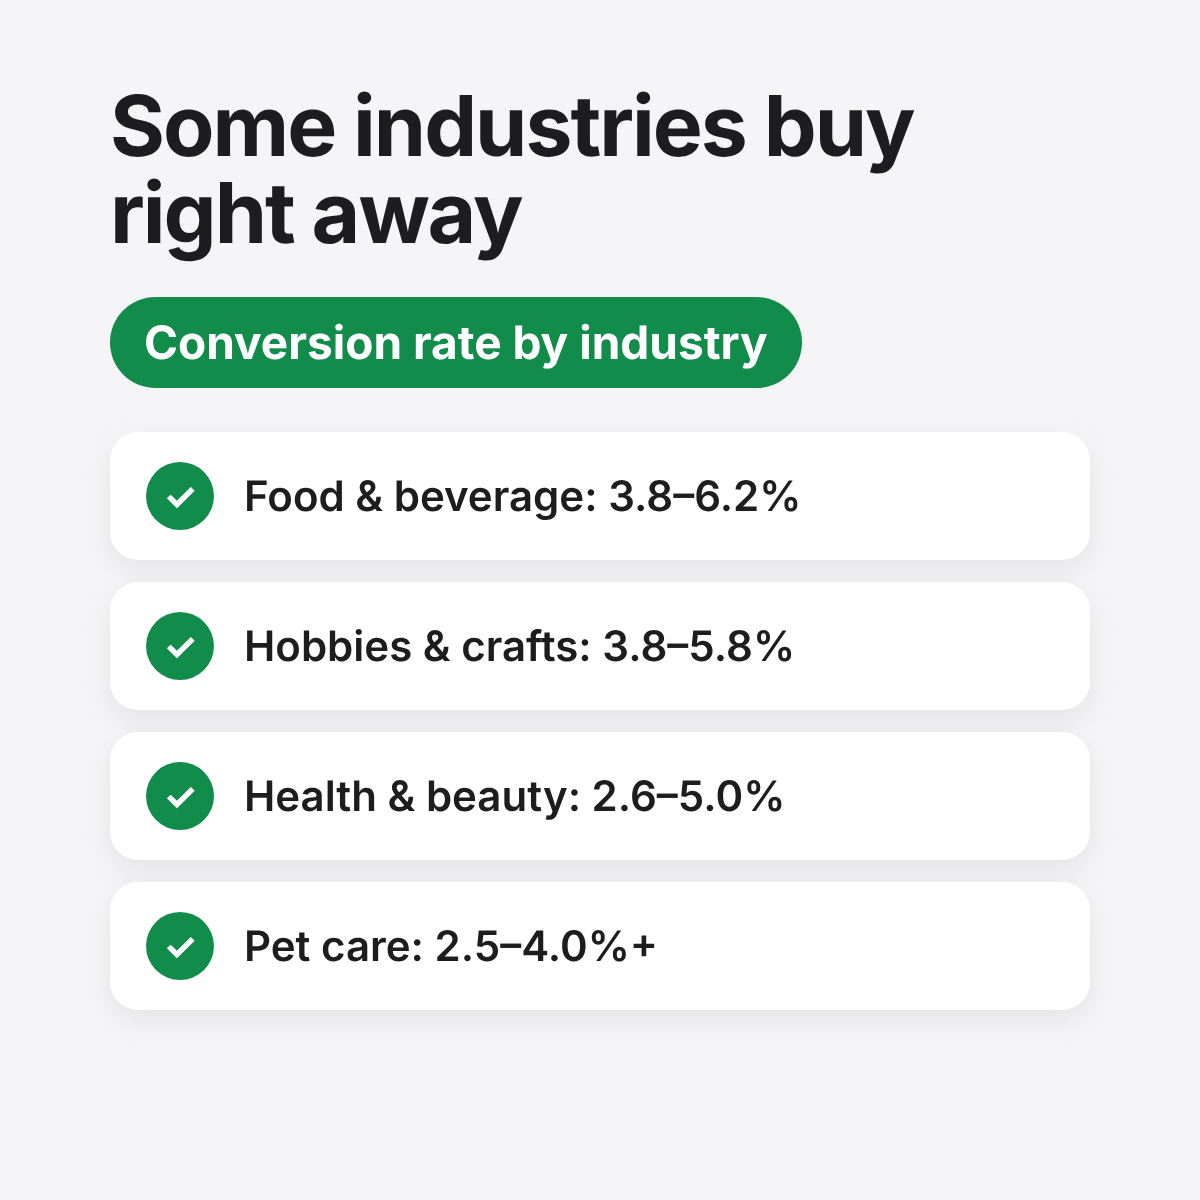
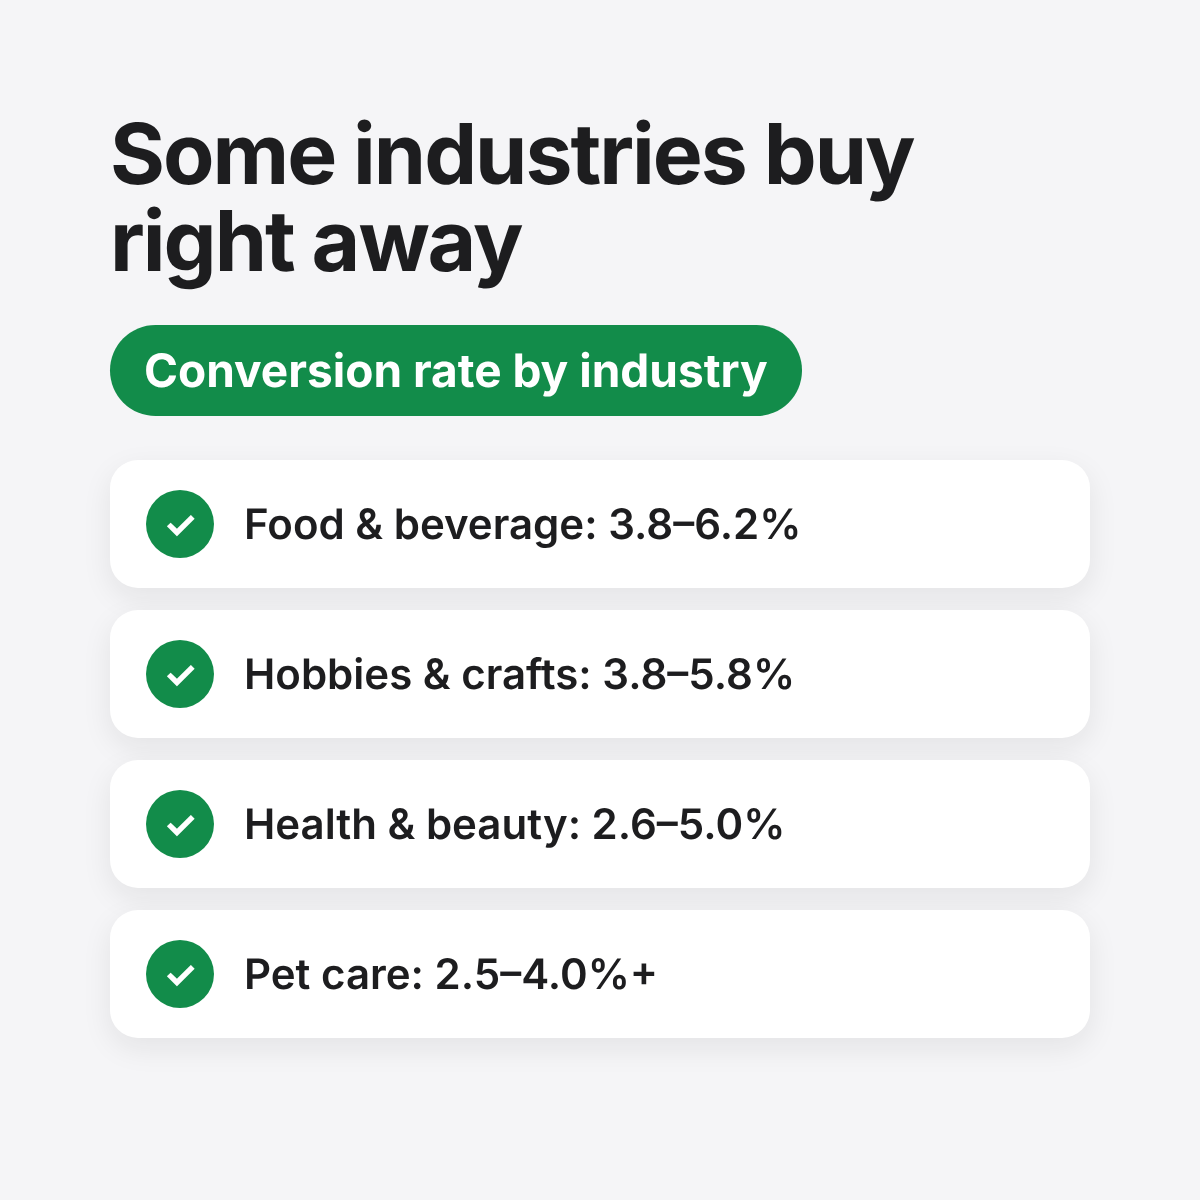
LinkedIn carousel: consistent 110 px top-anchored safe zone on all slides
Claude-Session: https://claude.ai/code/session_01BfJAaEZY2EfD7nu2Y1Q1pB

Changed region(s): [[0.0925, 0.0617, 0.7708, 0.4625], [0.1233, 0.6167, 0.6475, 0.8633], [0.1233, 0.4933, 0.6783, 0.5858]]

diff --git a/brand/zimols/render.js b/brand/zimols/render.js
@@ -102,7 +102,7 @@ function slide(s) {
   const page = await browser.newPage({ viewport: { width: F.w, height: F.h }, deviceScaleFactor: 1 });
   for (let i = 0; i < content.slides.length; i++) {
     const sl = content.slides[i];
-    const css = buildCss(sl.accent || C.accent, sl.accentInk || C.accent_ink);
+    const css = buildCss(sl.accent || C.accent, sl.accentInk || C.accent_ink) + (content.format === 'linkedin' ? '.pad{top:110px!important;bottom:auto!important}' : '');
     const html = `<!doctype html><html><head><meta charset="utf-8"><style>${css}</style></head><body>${slide(sl)}</body></html>`;
     await page.setContent(html, { waitUntil: 'load' });
     await page.evaluate(() => document.fonts.ready);
